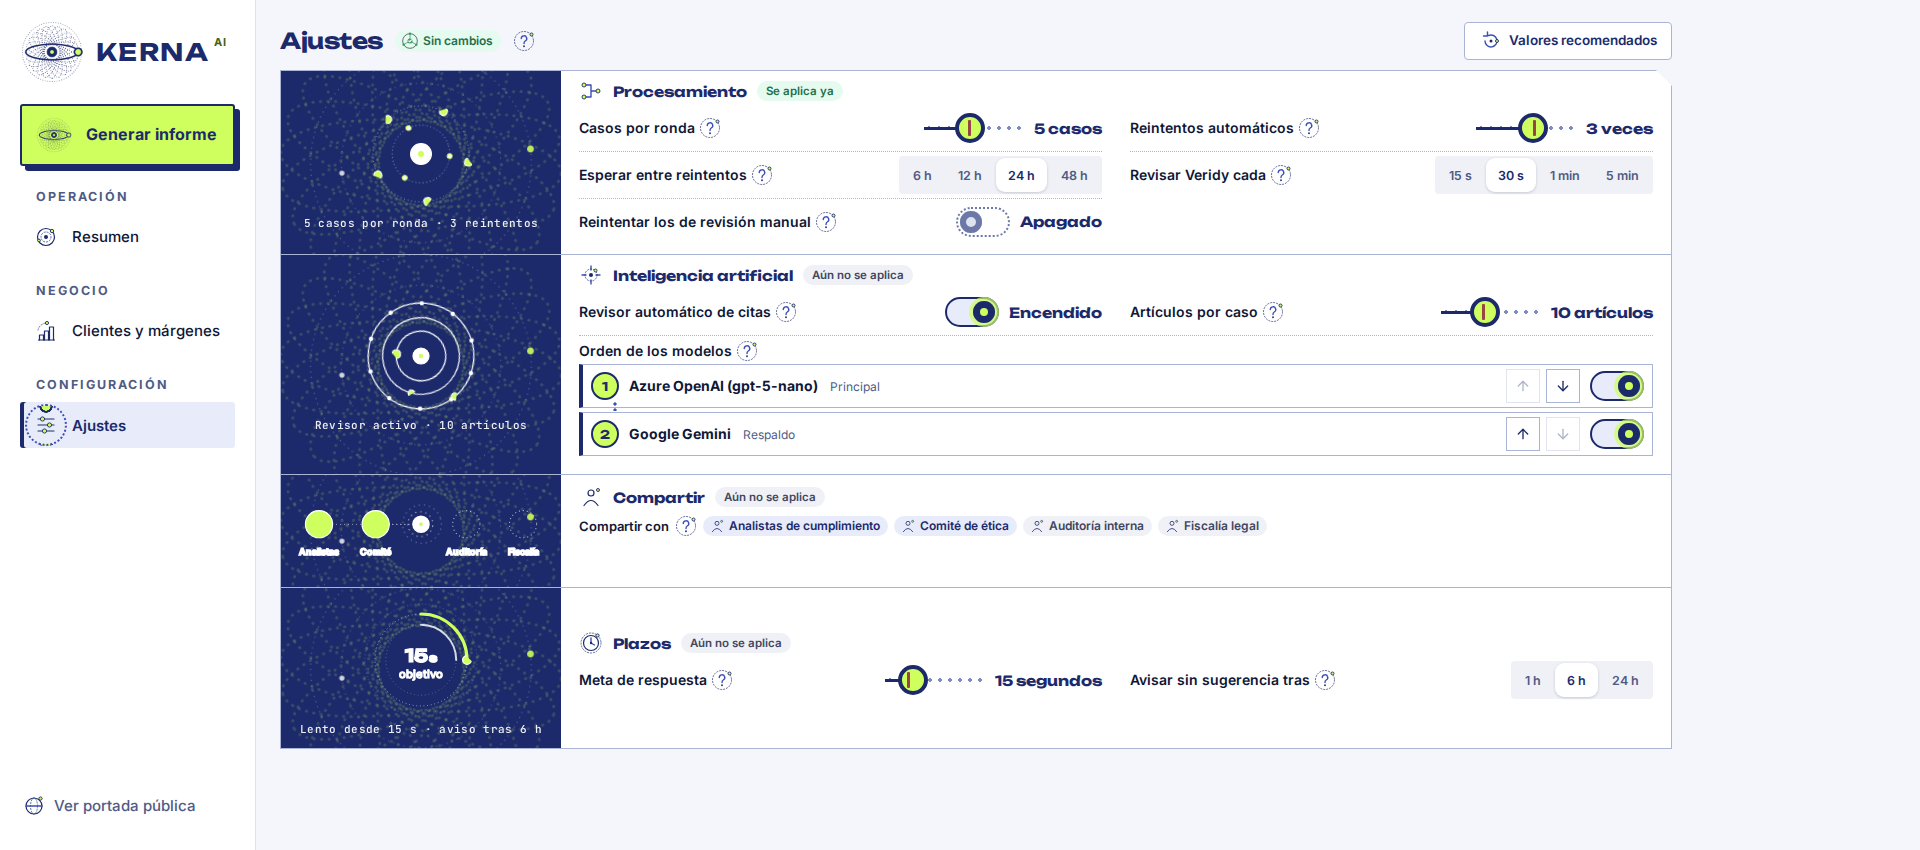
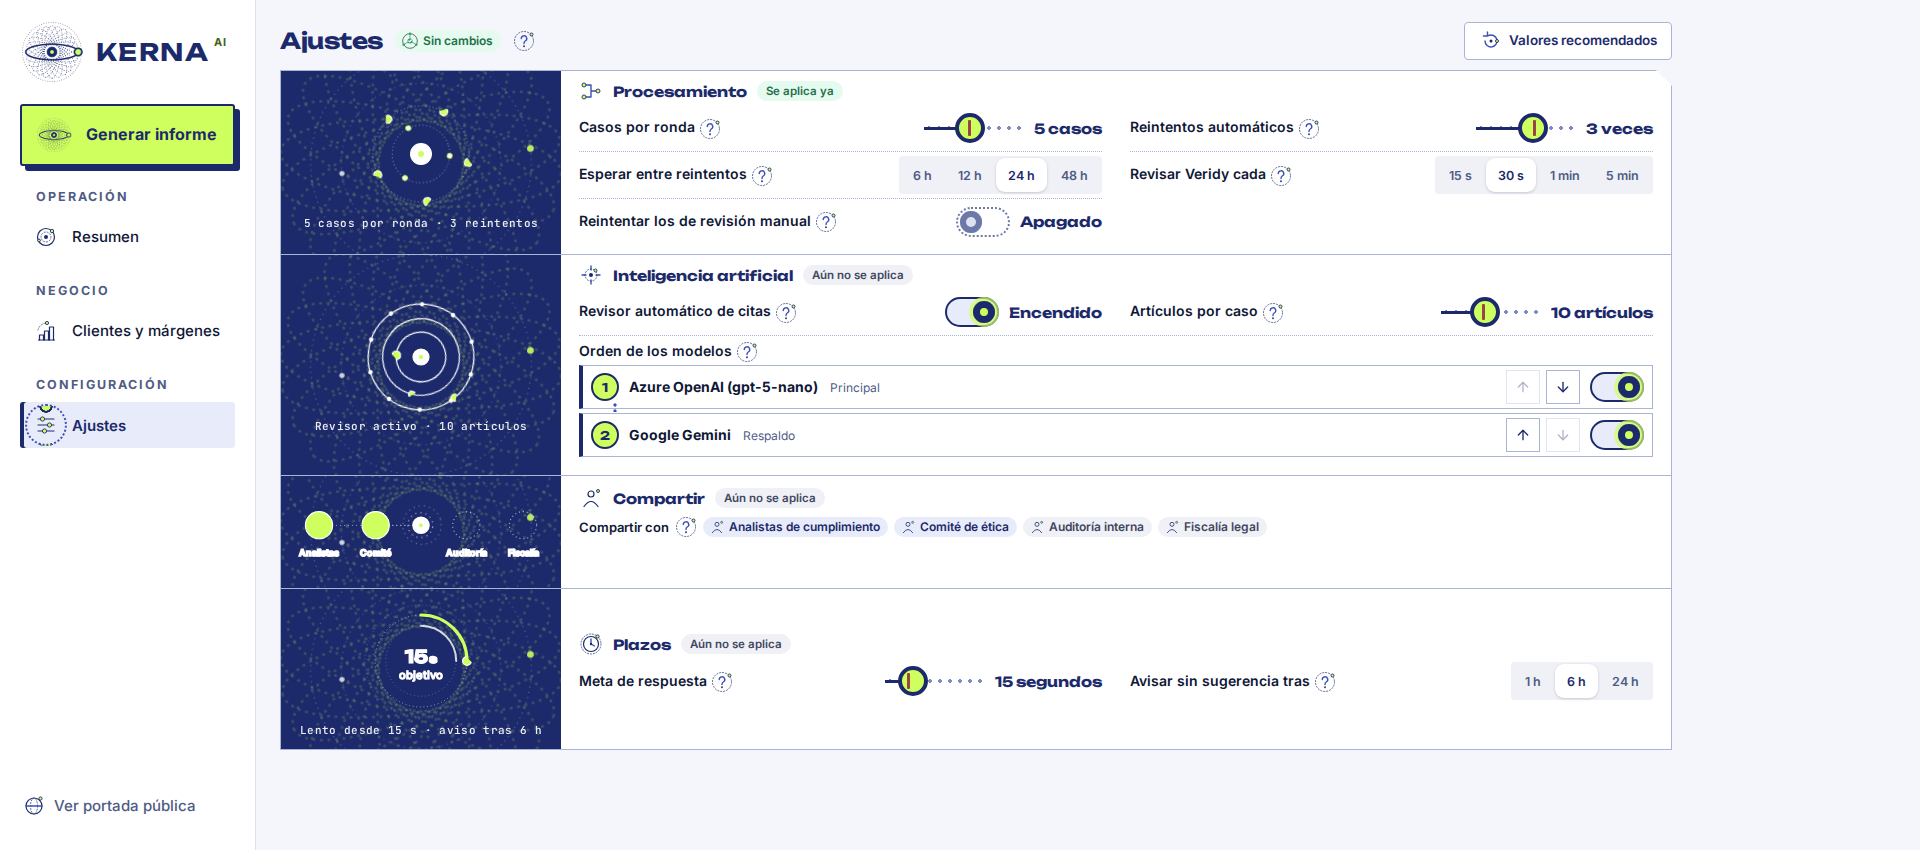
docs: pendientes y resumen de Ajustes, reintento y En vivo

diff --git a/pendientes/kerna-pendientes.md b/pendientes/kerna-pendientes.md
@@ -457,3 +457,12 @@ Si una tarea no tiene script, no la improvises con comandos sueltos: escribe un 
 
 ## Ajustes de IA que debe leer el núcleo (anotado 2026-11-13 por el agente del conector)
 El conector ya aplica `envios`, `reintentos`, `espera`, `revision` y `reprocesar` (ver `pendientes/contrato-reintento-conector.md`). Falta que el núcleo lea de la tabla `ajustes` (fila `kerna`/`actual`, JSON en `valores`) y aplique: `evaluador` (revisor automático de citas, bool), `candidatos` (artículos por caso, 3 a 20, depende de `evaluador`) y `cadena` (orden y activación de modelos: lista de `{v: azure|gemini, on: bool}`). Las llaves `compartir`, `maxresp` y `alerta` son del panel. Referencia: `kerna/front/app/ajustes.py` (`validar`).
+
+## Ajustes con movimiento, botón de reintento y «En vivo» (2026-11-13, agente de Ajustes)
+Hecho y desplegado (commits 7cb3fc2af a ff6732151): órbitas que giran (capas SVG y halo WebP `ap-halo.webp`, compositor), satélites y arco con transición, estados guardando/guardado/error con guardado por fetch, insignias «Se aplica ya» (solo Procesamiento) y «Aún no se aplica», restaurar por fila, teclado en selectores, `.aj` a 1.392 px; botón de reintento que nunca desaparece (`reintentos.vista_boton`, `_reintento_accion.html`, `/panel/reintentar/estado`); «En vivo» con hora del último dato (fila `conector`). Prueba: `kerna/operaciones/probar_movimiento.sh`.
+Falta (en orden):
+1. Los nombres de equipos en el panel de «Compartir» se ven a ~8 px a 1366 (el SVG de 480 de ancho se reduce a ~256): pasar los rótulos a HTML o usar un viewBox más angosto (`kerna/front/app/estaticos/ajustes.js`, escena `comp`).
+2. `maxresp`, `alerta` y `compartir` están marcados «Aún no se aplica» (supuesto, a confirmar): ningún componente los lee hoy (`kerna/front/app/ajustes.py`, `APLICA_YA`). Cuando el panel o el núcleo los use, agregarlos a `APLICA_YA`.
+3. Los ajustes de IA (`evaluador`, `candidatos`, `cadena`) siguen siendo del núcleo (ver sección anterior).
+4. El estado «en curso» del botón solo se verificó con respuesta simulada (no se pulsó el reintento real): comprobarlo cuando haya un pedido real.
+5. Arco de «Meta de respuesta»: anima `stroke-dasharray` (no solo transform/opacity) porque es una transición corta de un SVG de 120 px disparada por el control; no hay animación continua.

diff --git a/pendientes/resumen-sesion-2026-11-12.md b/pendientes/resumen-sesion-2026-11-12.md
@@ -87,3 +87,5 @@
 
 ### Ajustes con movimiento, botón de reintento y «En vivo» (2026-11-13, agente de Ajustes)
 - Último commit desplegado bueno antes de este despliegue: 82e9839c7 (front; `/salud` 200). Si algo falla: `kerna/front/desplegar.sh --ref 82e9839c7`.
+- Desplegado: ff6732151 (7cb3fc2af, 1d8665ba0, 70531926b y los arreglos siguientes). 118 pruebas del front pasan; `probar_movimiento.sh` pasa (órbitas giran, satélites y arco con transición, teclado, CPU en reposo 0,07 % en Ajustes y 0,01 % en Resumen, sin animaciones con prefers-reduced-motion). Capturas `kerna/front/diseno-v2/capturas/prod12-*.png` (390, 1366, 1920).
+- Contraste AA verificado (chips «Se aplica ya» 4,75; botón gris 5,92; barras de guardado 5,37 y 6,57) y `calcular_contraste_v3.py` sin fallas.
